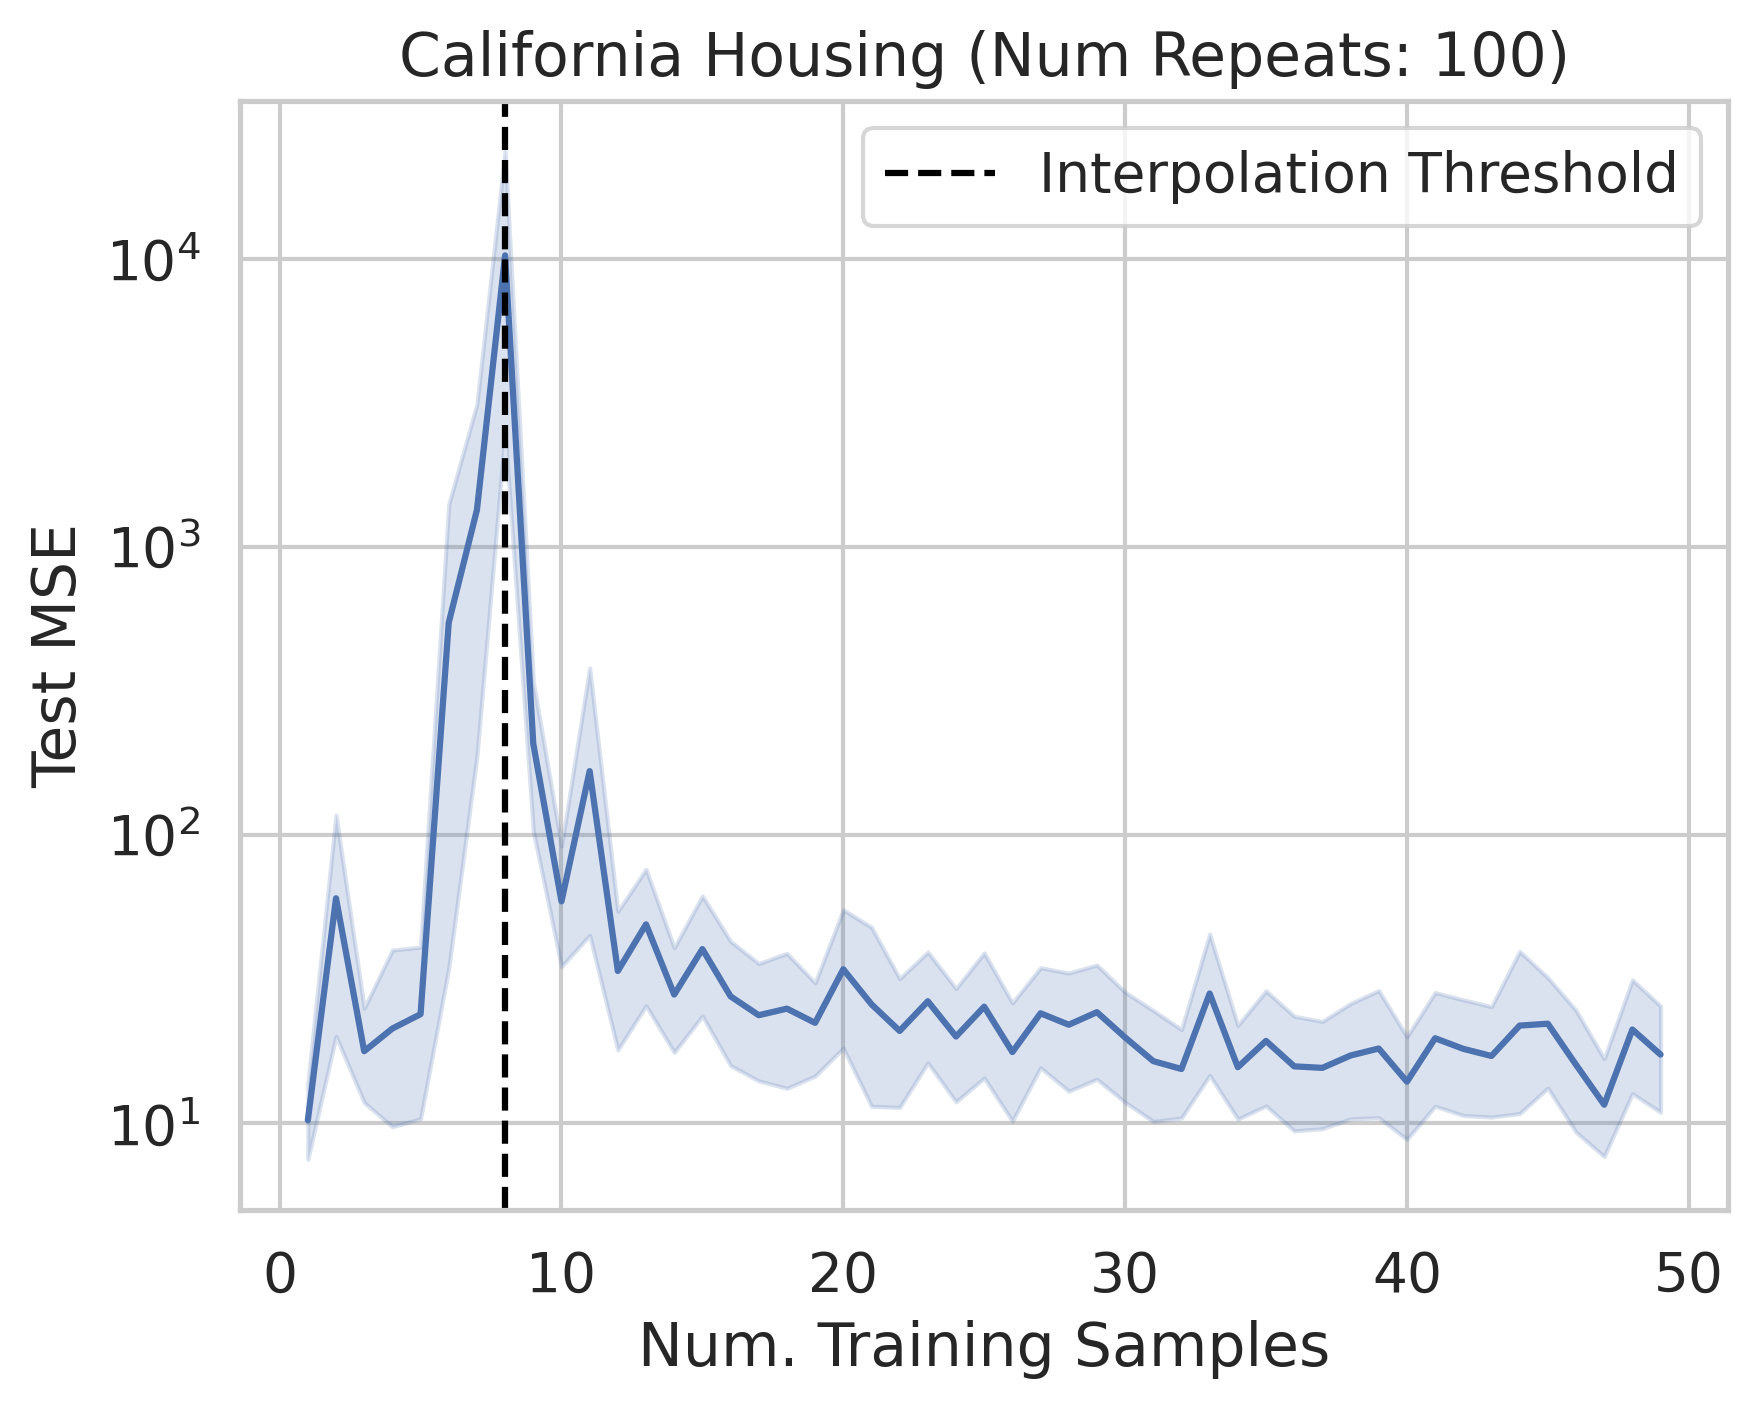
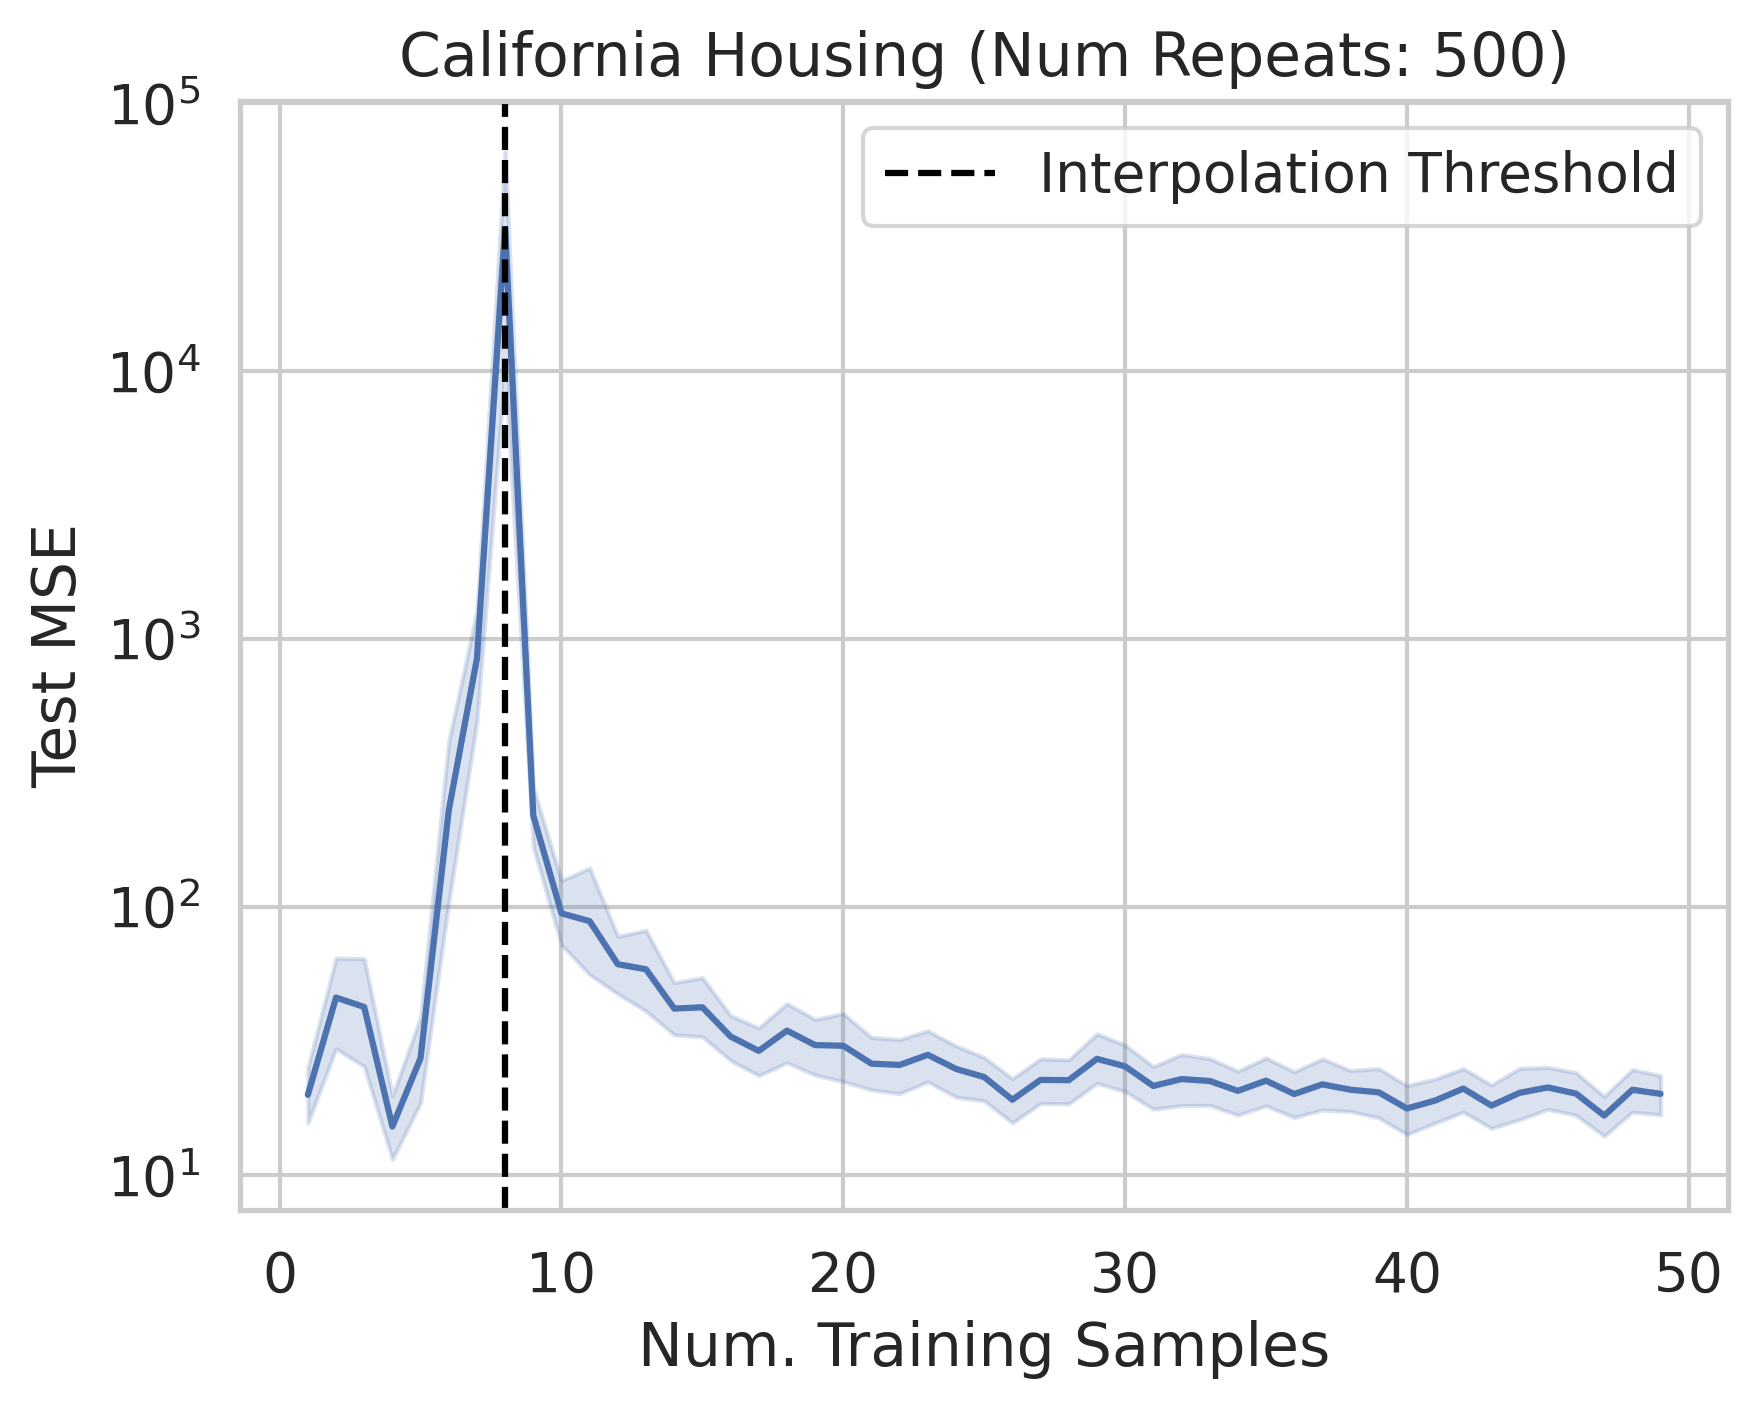
Ran with 500 repeats

diff --git a/playground.py b/playground.py
@@ -55,7 +55,7 @@ regression_datasets = [
 ]
 
 
-num_repeats = 100
+num_repeats = 500
 for dataset_name, dataset_fn in regression_datasets:
 
     print('On dataset:', dataset_name)
@@ -80,7 +80,7 @@ for dataset_name, dataset_fn in regression_datasets:
 
             # First run the random data subset
             random_subset_indices = np.random.choice(
-                np.arange(0, X_train.shape[0]),
+                np.arange(X_train.shape[0]),
                 size=subset_size,
                 replace=False,
             )
